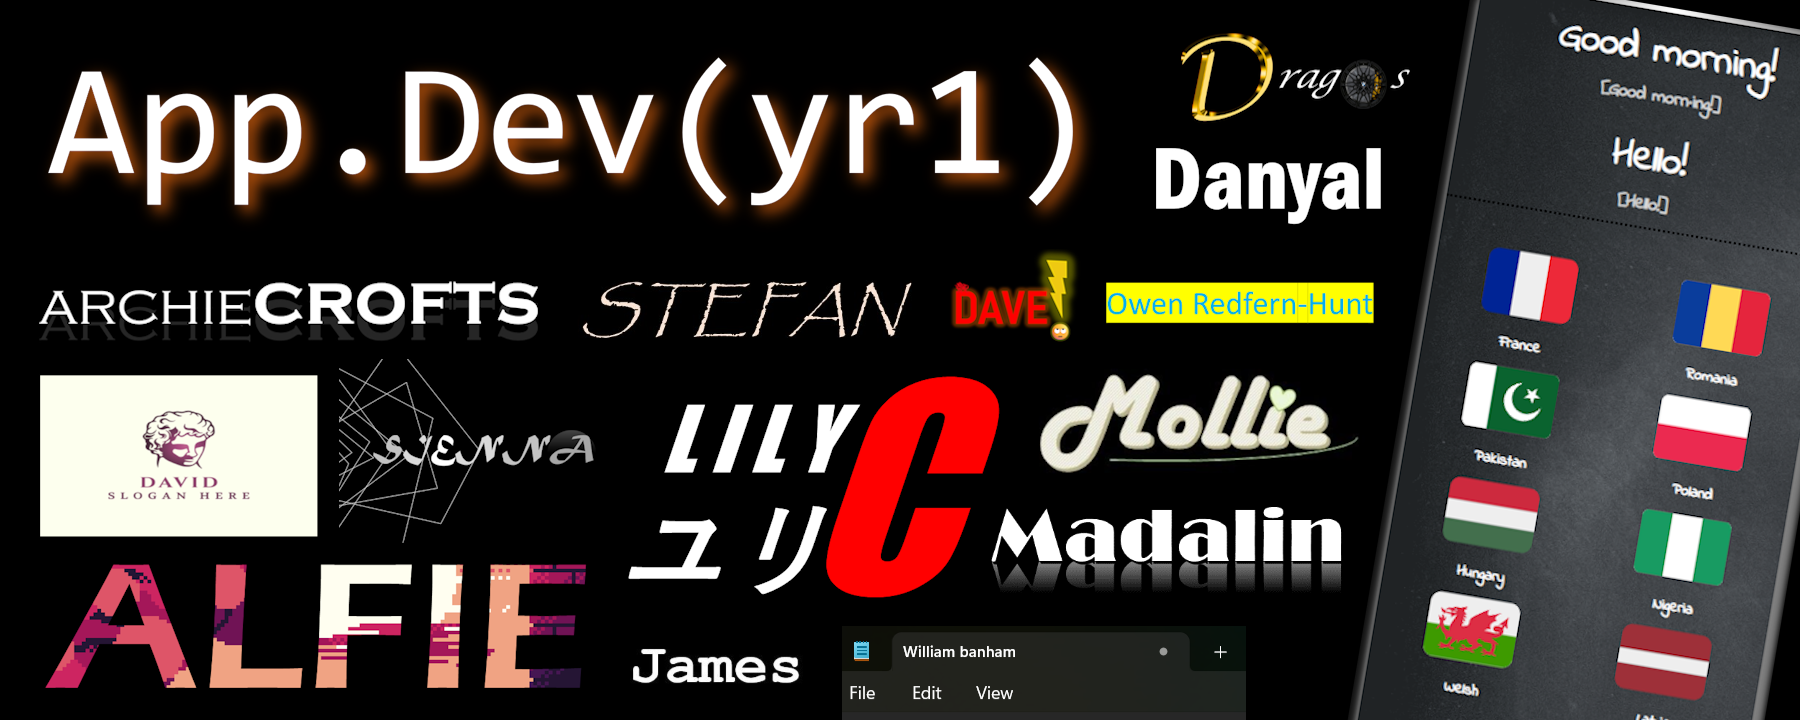
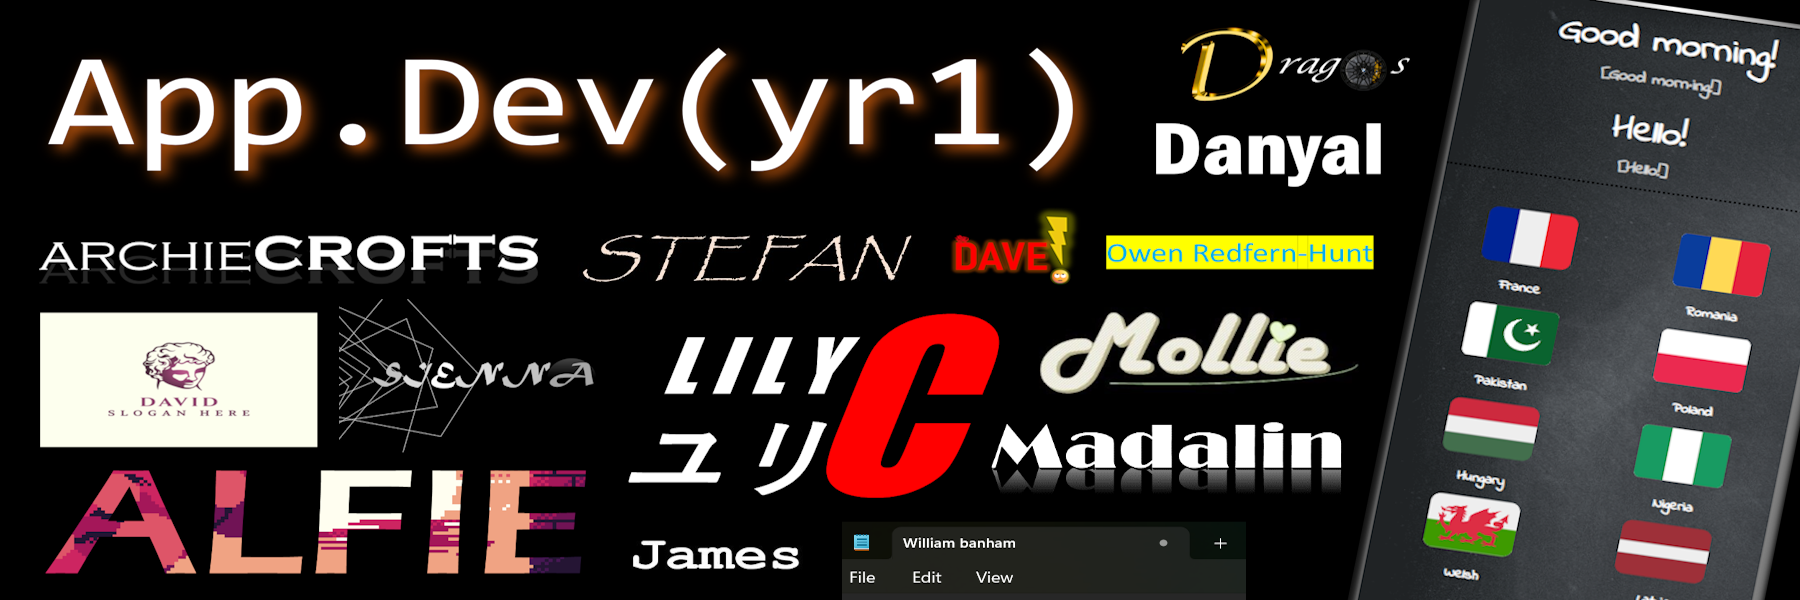
Image Height

Changed region(s): [[0.6533, 0.42, 0.7467, 0.45], [0.5289, 0.9, 0.56, 0.93]]

diff --git a/index.html b/index.html
@@ -61,7 +61,7 @@
       </div>
     </div>
     <div class="group-container">
-      <img src="images/AppDevYr1.png" style="height: 16vw" alt="" />
+      <img src="images/AppDevYr1.png"  alt="" />
       <div class="students appdev1">
         <div class="button">
           <div class="buttonText">
